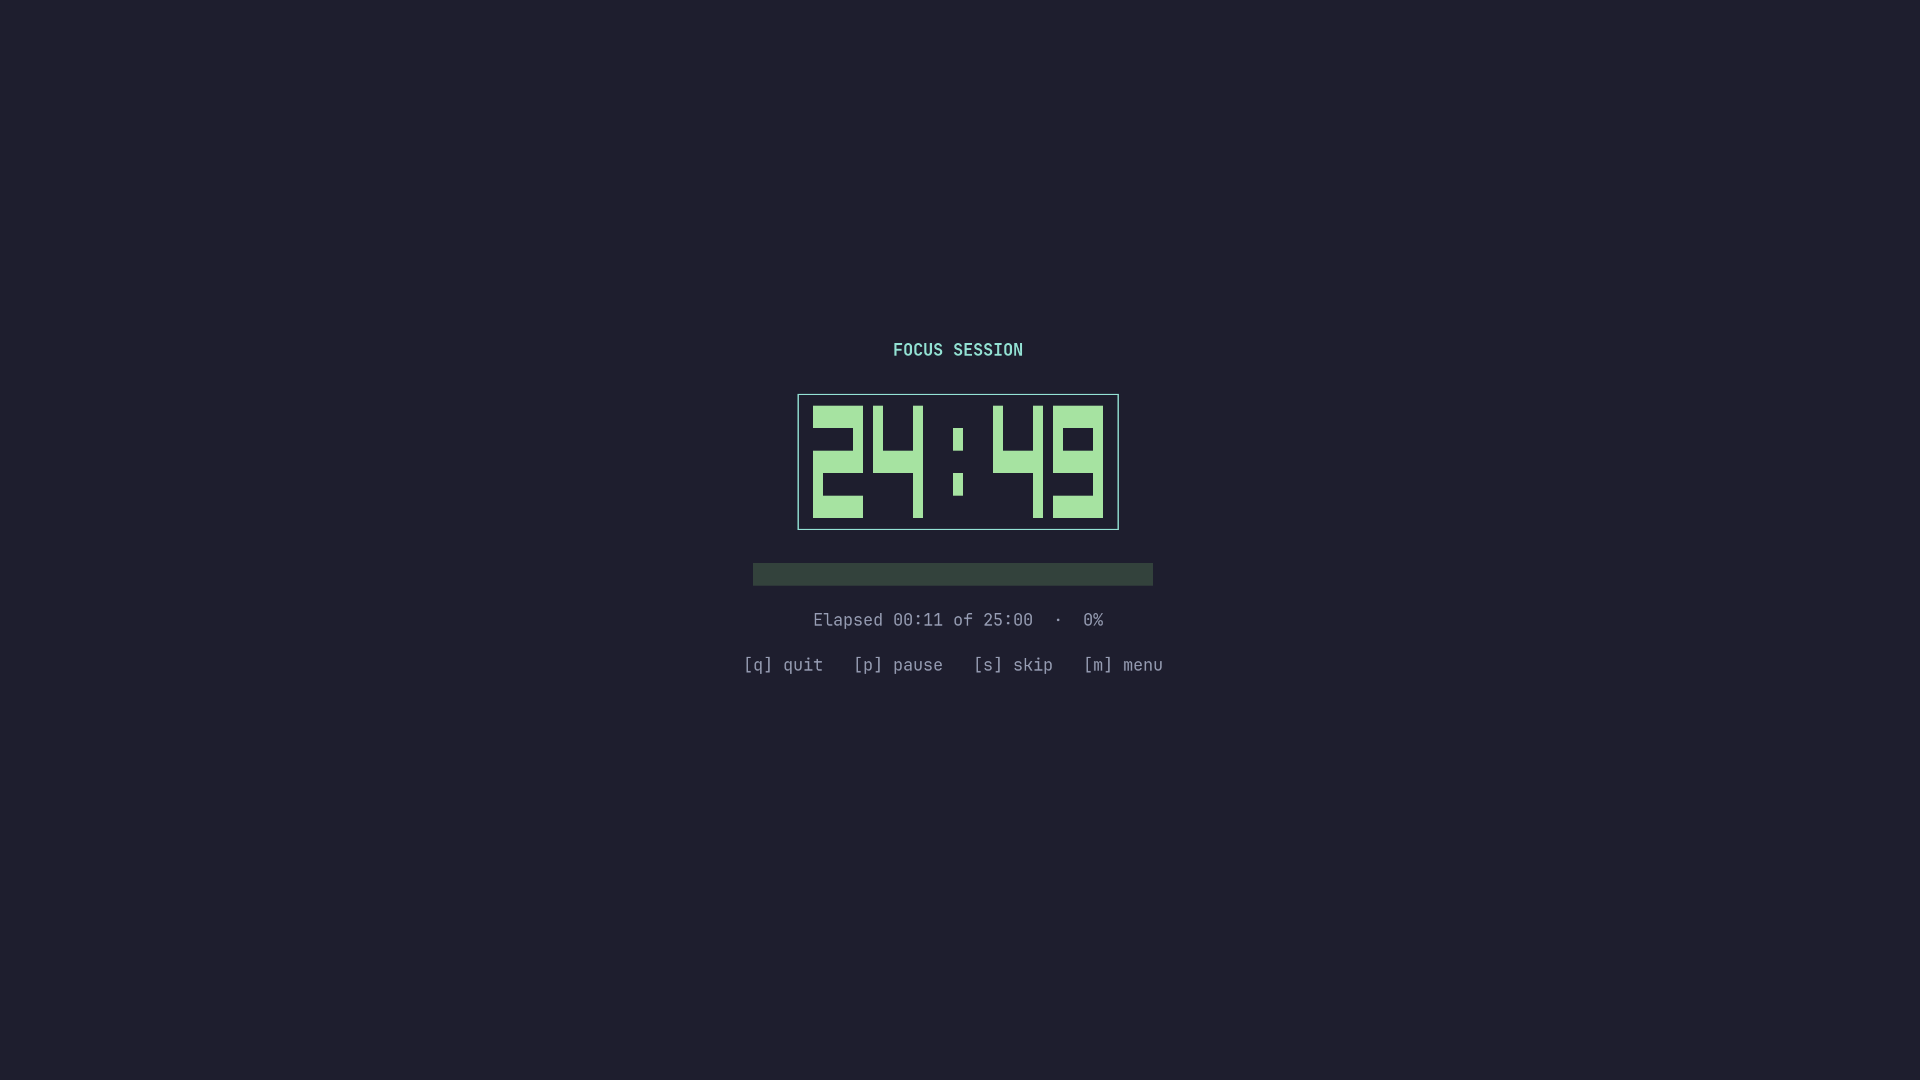
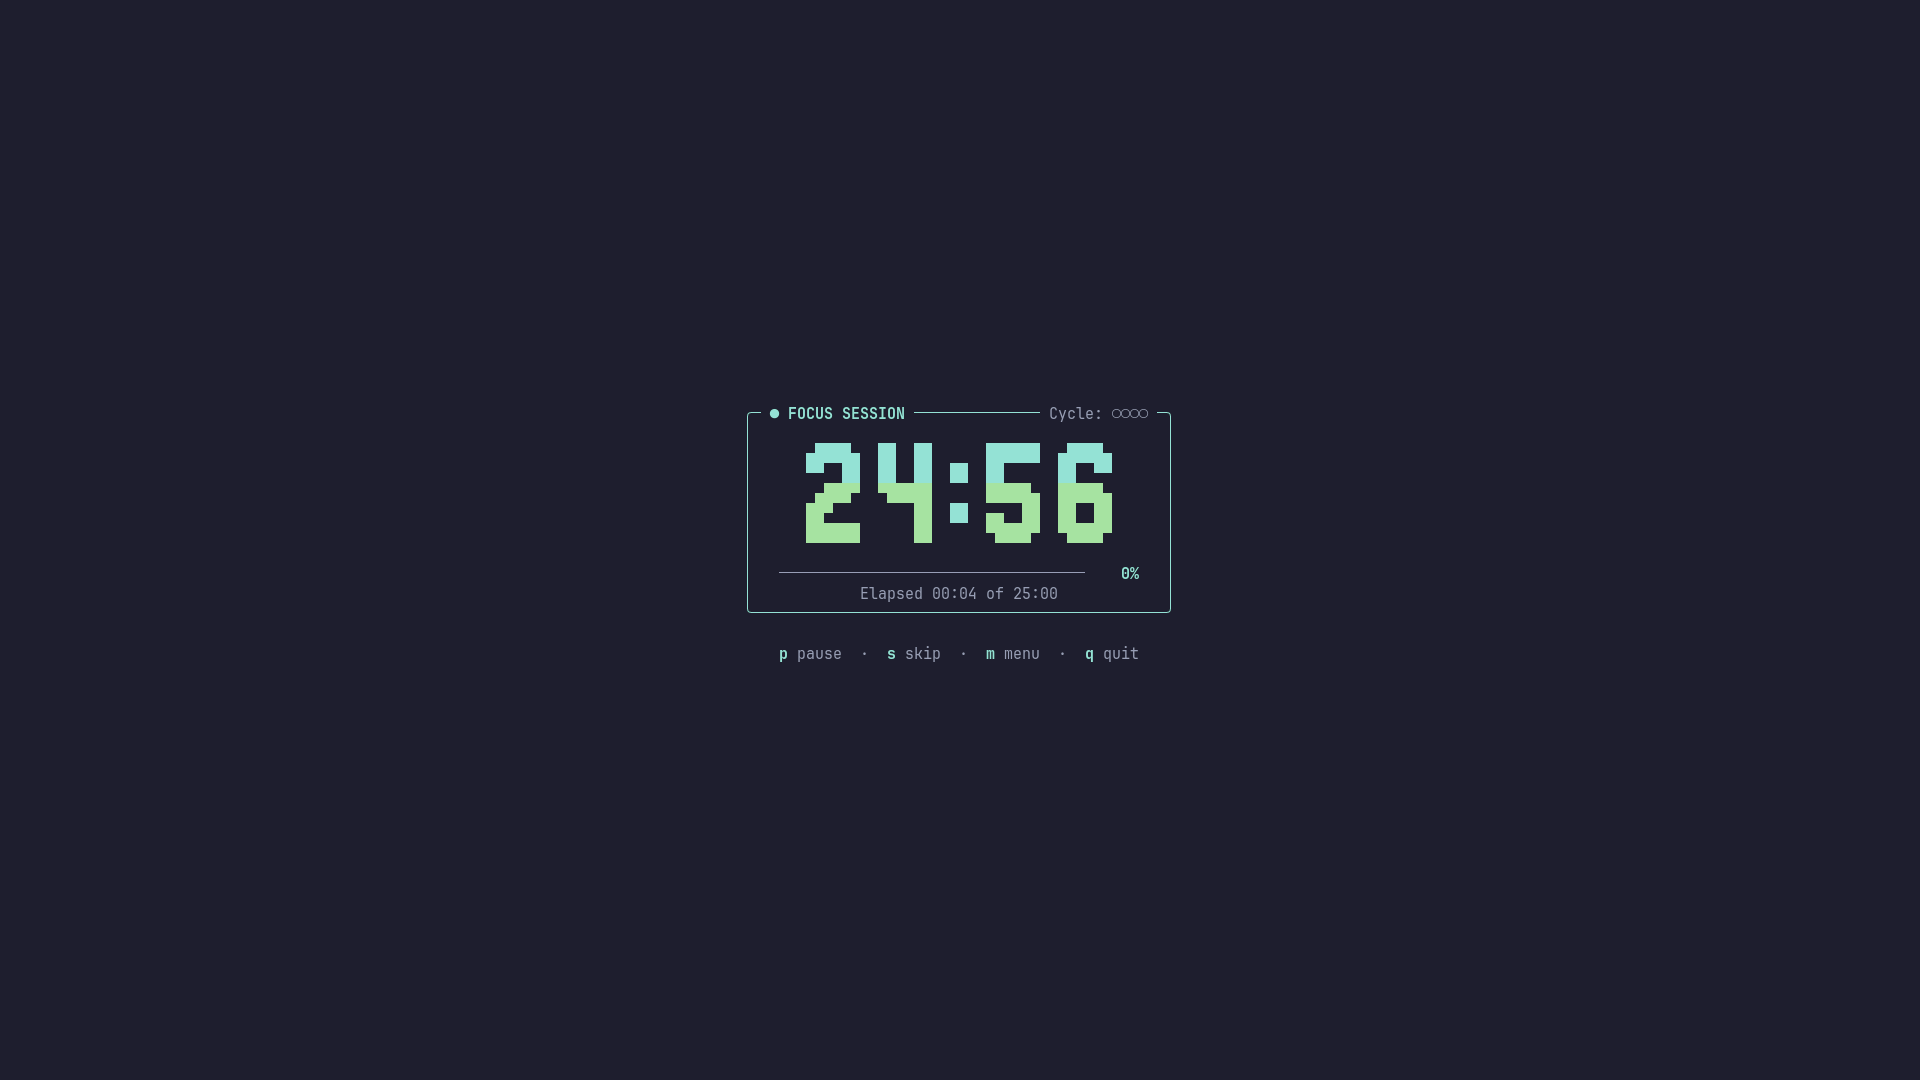
Update README, packaging suggestions, and TUI screenshot

diff --git a/README.md b/README.md
@@ -85,19 +85,20 @@ Only **completed** sessions are logged — skipping or switching writes nothing.
 
 ## Commands
 
-| Command         | What it does                                     |
-|-----------------|--------------------------------------------------|
-| `pomo`          | Confirm, then start a focus session (25 min)     |
-| `pomo start`    | Start focus immediately (25 min)                 |
-| `pomo -w`       | Short break (5 min)                              |
-| `pomo -W`       | Long break (15 min)                              |
-| `pomo resume`   | Resume an interrupted session                    |
-| `pomo stats`    | Today's summary + 7-day chart                    |
-| `pomo status`   | One-line status for status bars                  |
-| `pomo config`   | Show config file + durations                     |
-| `pomo theme`    | Show / pick a color theme                        |
-| `pomo update`   | Self-update from GitHub                          |
-| `pomo --help`   | Everything above, in the terminal                |
+| Command                   | What it does                                           |
+|---------------------------|--------------------------------------------------------|
+| `pomo [-t "task"]`        | Confirm, then start a focus session (25 min)           |
+| `pomo start [-t "task"]`  | Start focus immediately (25 min)                       |
+| `pomo -w`                 | Short break (5 min)                                    |
+| `pomo -W`                 | Long break (15 min)                                    |
+| `pomo resume`             | Resume an interrupted session                          |
+| `pomo stats`              | Today's summary + 7-day chart + top apps today         |
+| `pomo recap [today\|last]`| Focus activity recap (apps, switches, active %)        |
+| `pomo status`             | One-line status for status bars                        |
+| `pomo config`             | Show config file, durations, audio, and tracking       |
+| `pomo theme`              | Show / pick a color theme                              |
+| `pomo update`             | Self-update from GitHub                                |
+| `pomo --help`             | Everything above, in the terminal                      |
 
 The cycle is automatic: every 4th completed focus session is followed by
 a long break, the others by a short break. You confirm before each next
@@ -233,6 +234,30 @@ The timer uses a pixel-style animation: digits light up pixel by pixel
 at session start, and the colon blinks every second. Set
 `POMO_ANIMATION=off` to disable the animations.
 
+## Focus Activity Recap
+
+During focus sessions, pomo can automatically record **which applications
+you used**, how many times you switched apps, and an **active vs idle**
+estimate — then show a Focus Recap Card when the session finishes.
+
+- **Privacy-first:** No keylogging, no root privileges, and window titles
+  are never saved to disk — only normalized app names (e.g. `code`,
+  `firefox`, `ghostty`), stored locally.
+- **Supported backends (auto-detected):** Hyprland (`hyprctl`), Sway
+  (`swaymsg`), and X11 (`xdotool` / `xprop` + optional `xprintidle`).
+  On Wayland (Hyprland/Sway), installing `swayidle` enables compositor-level
+  keyboard + touchpad/mouse idle detection via `ext-idle-notify-v1` (still
+  no keylogging and no root); without `swayidle`, pomo falls back to cursor
+  & active-window changes. Gracefully falls back to timer-only when no
+  desktop backend is available.
+- **Optional session task:** Label a focus session with
+  `pomo -t "Write chapter 3"` or `pomo start -t "API refactor"`.
+- **View recaps anytime:** Run `pomo recap` (today's sessions + top apps)
+  or `pomo recap last`.
+- **Disable tracking:** Set `POMO_TRACKING=off` for one run or
+  `ACTIVITY_TRACKING=off` in `~/.config/pomo/pomo.conf`. You can also tune
+  the idle cutoff with `IDLE_THRESHOLD_SECONDS=60` (or `POMO_IDLE_THRESHOLD`).
+
 ## Where is my data?
 
 Completed sessions are appended to
@@ -241,6 +266,13 @@ Completed sessions are appended to
 
 ```
 2026-10-16|focus|1500
+```
+
+Focus activity recaps (only for completed focus sessions) are appended to
+`~/.local/share/pomo/activity.log`:
+
+```
+2026-11-20|13:55|1500|Write chapter 3|6|1380|120|code=1080,firefox=300,ghostty=120
 ```
 
 Plain text — grep it, back it up, or delete it. That is all pomo stores.
